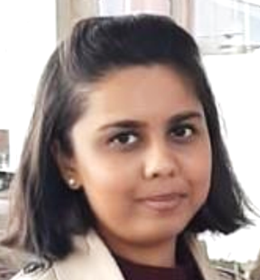
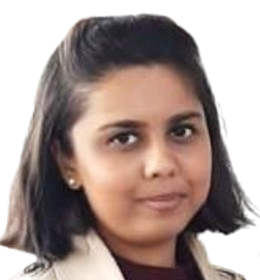
about us updated

diff --git a/src/pages/AboutUs/aboutUs.css b/src/pages/AboutUs/aboutUs.css
@@ -142,6 +142,7 @@ section.about_founder {
 .about_founder_card img {
   width: 80%;
   object-fit: cover;
+  border-radius: 0.25rem;
 }
 
 /* Team section */
@@ -174,6 +175,8 @@ section.about_team {
 .about_team .team_card_item img {
   width: 75%;
   object-fit: cover;
+  background-color: var(--off-white);
+  border-radius: 0.25rem;
 }
 
 /* Counsels section */
